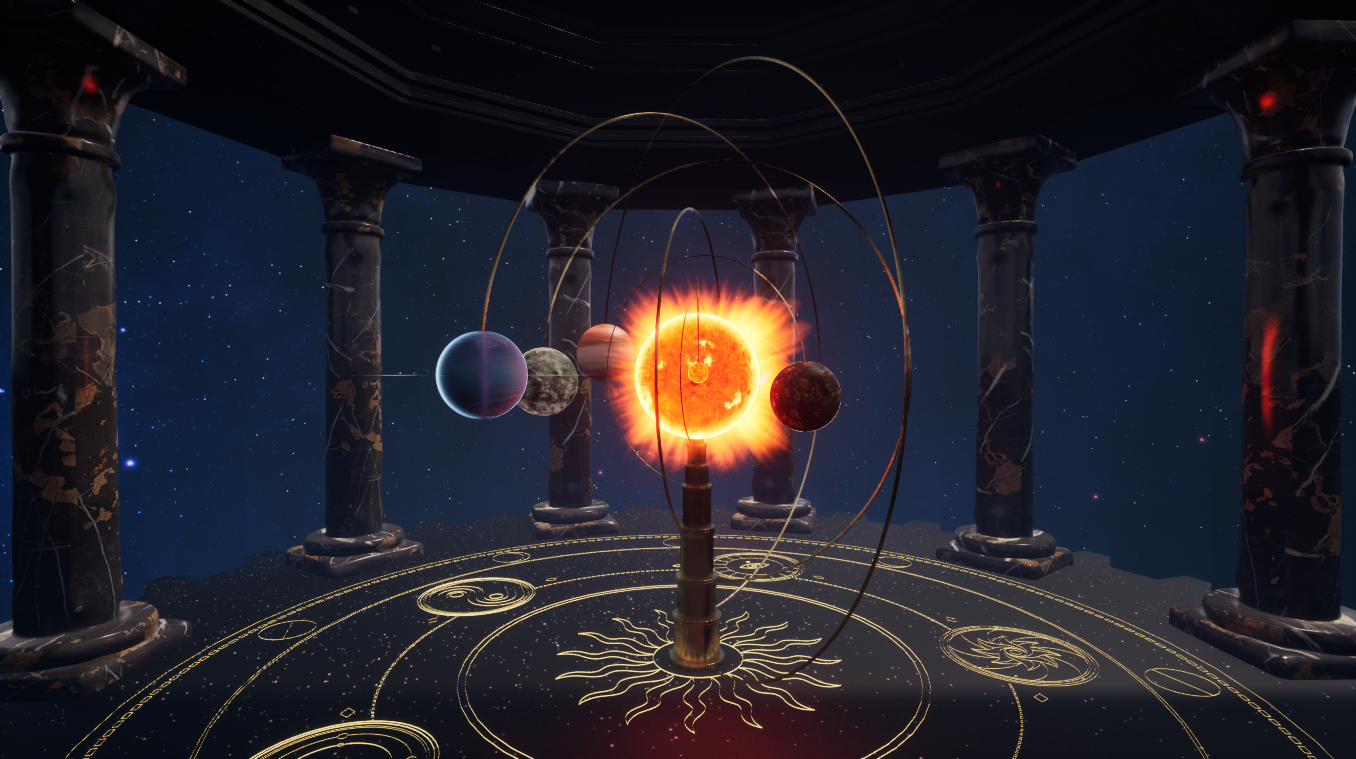
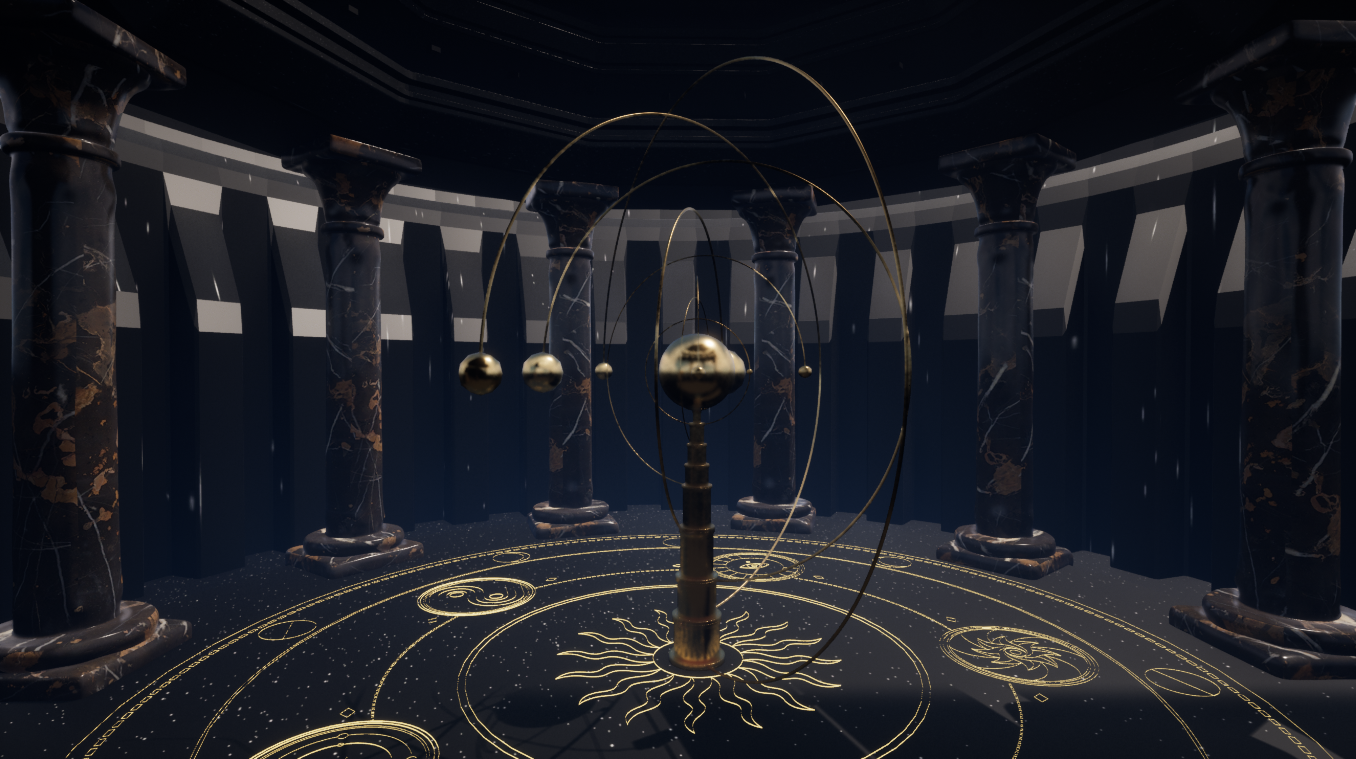
Update backgrounds

diff --git a/apps/dapp/src/components/Pages/Nexus/Relic/index.tsx b/apps/dapp/src/components/Pages/Nexus/Relic/index.tsx
@@ -1,5 +1,5 @@
-import bgActive from 'assets/images/nexus-room-active.jpg';
-import bgInactive from 'assets/images/nexus-room-inactive.jpg';
+import bgActive from 'assets/images/nexus/background_on.png';
+import bgInactive from 'assets/images/nexus/background_off.png';
 import { useRelic } from 'providers/RelicProvider';
 import { ItemInventory } from 'providers/types';
 import { useWallet } from 'providers/WalletProvider';
